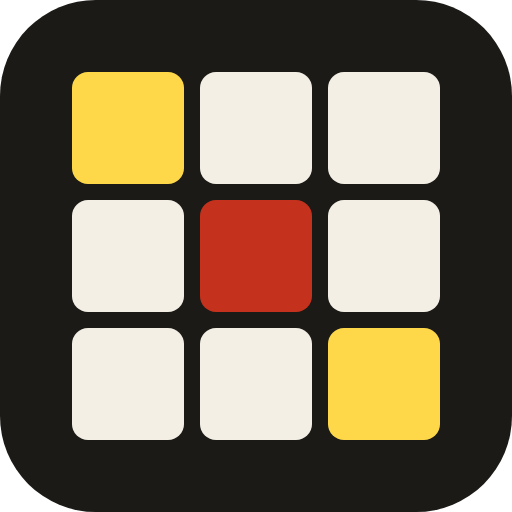
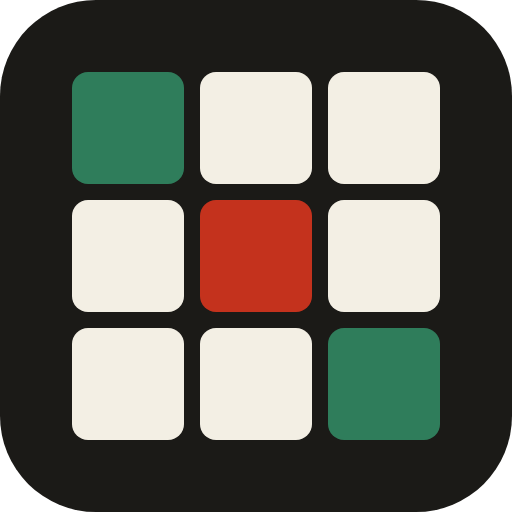
Add files via upload

Changed region(s): [[0.625, 0.625, 0.875, 0.875], [0.125, 0.125, 0.375, 0.375]]

diff --git a/index.html b/index.html
@@ -30,7 +30,7 @@ body { margin: 0; }
 [hidden] { display: none !important; }
 img { max-width: 100%; }
 
-/* Look: a photocopied course handout. Paper, black ink, a red pen for marking, highlighter yellow for the win. Dark mode is a chalkboard. */
+/* Look: a photocopied course handout. Paper, black ink, a red pen for marking, green highlighter for the win. Dark mode is a chalkboard. */
 :root {
   --bg: #F3EFE4;
   --surface: #FAF7EE;
@@ -41,8 +41,8 @@ img { max-width: 100%; }
   --accent-ink: #F3EFE4;
   --pen: #C4321D;
   --pen-ink: #FFFFFF;
-  --win: #FFD84A;
-  --win-ink: #2B2200;
+  --win: #2F7D5B;
+  --win-ink: #FFFFFF;
   --ok-bg: #E9E3D2;
   --ok-ink: #4A463A;
   --ok-line: #CFC7B0;
@@ -66,8 +66,8 @@ img { max-width: 100%; }
     --accent-ink: #14201A;
     --pen: #FF8A6B;
     --pen-ink: #1B0D08;
-    --win: #F2D864;
-    --win-ink: #241C00;
+    --win: #7FD3A2;
+    --win-ink: #0F2A1D;
     --ok-bg: #223229;
     --ok-ink: #CFD6CB;
     --ok-line: #34493D;
@@ -88,8 +88,8 @@ img { max-width: 100%; }
   --accent-ink: #14201A;
   --pen: #FF8A6B;
   --pen-ink: #1B0D08;
-  --win: #F2D864;
-  --win-ink: #241C00;
+  --win: #7FD3A2;
+  --win-ink: #0F2A1D;
   --ok-bg: #223229;
   --ok-ink: #CFD6CB;
   --ok-line: #34493D;
@@ -187,6 +187,10 @@ label.siteopt span { font-family: var(--font-body); font-size: 13.5px; letter-sp
 .siteopt input { width: 16px; height: 16px; accent-color: var(--accent); }
 .vote { min-height: 38px; }
 .rm, .cx { min-width: 38px; min-height: 38px; }
+.mark .b { fill: var(--ink); }
+.mark .c { fill: var(--bg); }
+.mark .w { fill: var(--win); }
+.mark .p { fill: var(--pen); }
 .mark { width: 0.82em; height: 0.82em; flex: none; border-radius: 22%; }
 h1 a { display: inline-flex; align-items: center; gap: 0.3em; }
 .nudge { position: fixed; left: max(16px, env(safe-area-inset-left, 0px)); right: 92px; bottom: max(16px, env(safe-area-inset-bottom, 0px)); max-width: 380px; z-index: 40; background: var(--ink); color: var(--bg); border-radius: 4px; padding: 10px 10px 10px 14px; display: flex; gap: 10px; align-items: center; font-size: 13px; line-height: 1.35; box-shadow: 3px 3px 0 var(--pen); animation: nudgein 0.25s ease-out; }
@@ -320,7 +324,7 @@ window.EULER_CONFIG = { url: "https://qicvehmdaxkxtssbqwld.supabase.co", key: "s
 <script src="https://cdn.jsdelivr.net/npm/@supabase/supabase-js@2.100.0"></script>
 <div class="wrap">
   <header>
-    <h1><a href="#" id="logo" aria-label="Prof Says, all cohorts"><svg class="mark" viewBox="0 0 64 64" aria-hidden="true"><rect width="64" height="64" rx="12" fill="#1B1A17"/><rect x="9" y="9" width="14" height="14" rx="2" fill="#FFD84A"/><rect x="25" y="9" width="14" height="14" rx="2" fill="#F3EFE4"/><rect x="41" y="9" width="14" height="14" rx="2" fill="#F3EFE4"/><rect x="9" y="25" width="14" height="14" rx="2" fill="#F3EFE4"/><rect x="25" y="25" width="14" height="14" rx="2" fill="#C4321D"/><rect x="41" y="25" width="14" height="14" rx="2" fill="#F3EFE4"/><rect x="9" y="41" width="14" height="14" rx="2" fill="#F3EFE4"/><rect x="25" y="41" width="14" height="14" rx="2" fill="#F3EFE4"/><rect x="41" y="41" width="14" height="14" rx="2" fill="#FFD84A"/></svg><span>Prof Says</span></a></h1>
+    <h1><a href="#" id="logo" aria-label="Prof Says, all cohorts"><svg class="mark" viewBox="0 0 64 64" aria-hidden="true"><rect width="64" height="64" rx="12" class="b"/><rect x="9" y="9" width="14" height="14" rx="2" class="w"/><rect x="25" y="9" width="14" height="14" rx="2" class="c"/><rect x="41" y="9" width="14" height="14" rx="2" class="c"/><rect x="9" y="25" width="14" height="14" rx="2" class="c"/><rect x="25" y="25" width="14" height="14" rx="2" class="p"/><rect x="41" y="25" width="14" height="14" rx="2" class="c"/><rect x="9" y="41" width="14" height="14" rx="2" class="c"/><rect x="25" y="41" width="14" height="14" rx="2" class="c"/><rect x="41" y="41" width="14" height="14" rx="2" class="w"/></svg><span>Prof Says</span></a></h1>
   </header>
 
   <p class="status" id="status" role="status" hidden></p>
@@ -2368,13 +2372,14 @@ window.EULER_CONFIG = { url: "https://qicvehmdaxkxtssbqwld.supabase.co", key: "s
   function applyTheme(board, id) {
     if (!board) return;
     var t = THEME[id];
-    ["--c-bg", "--c-line", "--c-ink", "--c-on", "--c-on-ink"].forEach(function (p) { board.style.removeProperty(p); });
+    ["--c-bg", "--c-line", "--c-ink", "--c-on", "--c-on-ink", "--win", "--win-ink"].forEach(function (p) { board.style.removeProperty(p); });
     board.style.background = "";
     board.classList.remove("themed");
     var deco = board.previousElementSibling && board.previousElementSibling.classList.contains("deco") ? board.previousElementSibling : null;
     if (!t) { if (deco) deco.hidden = true; return; }
     board.style.setProperty("--c-bg", themeCell(t)); board.style.setProperty("--c-line", t.l); board.style.setProperty("--c-ink", t.k);
     board.style.setProperty("--c-on", t.o); board.style.setProperty("--c-on-ink", t.oi);
+    var wn = winFor(t); board.style.setProperty("--win", wn.win); board.style.setProperty("--win-ink", wn.ink);
     board.style.background = themeBg(t);
     board.classList.add("themed");
     var html = decoHtml(t);
@@ -2616,6 +2621,24 @@ window.EULER_CONFIG = { url: "https://qicvehmdaxkxtssbqwld.supabase.co", key: "s
     m.forEach(function (h) { var c = hexRgb(h); sum[0] += c[0]; sum[1] += c[1]; sum[2] += c[2]; });
     return rgbHex(sum.map(function (v) { return v / m.length; }));
   }
+  function rgb2hsl(c) {
+    var r = c[0] / 255, g = c[1] / 255, b = c[2] / 255, mx = Math.max(r, g, b), mn = Math.min(r, g, b), l = (mx + mn) / 2, h = 0, sa = 0, d = mx - mn;
+    if (d) { sa = l > 0.5 ? d / (2 - mx - mn) : d / (mx + mn); if (mx === r) h = (g - b) / d + (g < b ? 6 : 0); else if (mx === g) h = (b - r) / d + 2; else h = (r - g) / d + 4; h *= 60; }
+    return [h, sa, l];
+  }
+  function hsl2hex(h, sa, l) {
+    var a = sa * Math.min(l, 1 - l);
+    var f = function (n) { var k = (n + h / 30) % 12; return l - a * Math.max(-1, Math.min(k - 3, 9 - k, 1)); };
+    return rgbHex([f(0) * 255, f(8) * 255, f(4) * 255]);
+  }
+  // the "bingo" colour: the backdrop's accent turned to its opposite hue, tuned so text on it passes contrast
+  function winFor(t) {
+    var hsl = rgb2hsl(hexRgb(t.o)), h = (hsl[0] + 180) % 360, sa = Math.max(0.5, Math.min(0.78, hsl[1] || 0.6));
+    var cell = /^#[0-9A-Fa-f]{6}/.test(t.c) ? t.c.slice(0, 7) : baseOf(t), L, c;
+    for (L = 0.3; L <= 0.46; L += 0.02) { c = hsl2hex(h, sa, L); if (contrast("#FFFFFF", c) >= 4.6 && contrast(c, cell) >= 1.8) return { win: c, ink: "#FFFFFF" }; }
+    for (L = 0.82; L >= 0.55; L -= 0.02) { c = hsl2hex(h, sa, L); if (contrast("#1B1A17", c) >= 4.6 && contrast(c, cell) >= 1.8) return { win: c, ink: "#1B1A17" }; }
+    return { win: "#2F7D5B", ink: "#FFFFFF" };
+  }
   function siteVars(t) {
     var base = baseOf(t), darkInk = lum(base) > 0.22, ink = darkInk ? "#1B1A17" : "#F1EEE2";
     var surface = darkInk ? mixc(base, "#ffffff", 0.6) : mixc(base, "#000000", 0.4), k = 0.6;
@@ -2631,10 +2654,11 @@ window.EULER_CONFIG = { url: "https://qicvehmdaxkxtssbqwld.supabase.co", key: "s
       "--bg": page, "--surface": surface, "--ink": ink, "--muted": muted, "--line": mixc(surface, ink, 0.3),
       "--accent": accent, "--accent-ink": accentInk, "--pen": pen, "--pen-ink": contrast("#FFFFFF", pen) >= contrast("#1B1A17", pen) ? "#FFFFFF" : "#1B1A17",
       "--ok-bg": mixc(surface, ink, 0.1), "--ok-ink": mixc(ink, surface, 0.15), "--ok-line": mixc(surface, ink, 0.3),
+      "--win": winFor(t).win, "--win-ink": winFor(t).ink,
       dark: !darkInk, base: base, wash: surface
     };
   }
-  var SITE_PROPS = ["--bg", "--surface", "--ink", "--muted", "--line", "--accent", "--accent-ink", "--pen", "--pen-ink", "--ok-bg", "--ok-ink", "--ok-line"];
+  var SITE_PROPS = ["--win", "--win-ink", "--bg", "--surface", "--ink", "--muted", "--line", "--accent", "--accent-ink", "--pen", "--pen-ink", "--ok-bg", "--ok-ink", "--ok-line"];
   function sitePref() { try { return localStorage.getItem(SITE_KEY) !== "0"; } catch (e) { return true; } }
   function applySite(id) {
     var root = document.documentElement, t = THEME[id];
@@ -2682,7 +2706,8 @@ window.EULER_CONFIG = { url: "https://qicvehmdaxkxtssbqwld.supabase.co", key: "s
   function confetti() {
     if (window.matchMedia && window.matchMedia("(prefers-reduced-motion: reduce)").matches) return;
     var box = el("div", "confetti"); box.setAttribute("aria-hidden", "true");
-    var colors = ["#FFD84A", "#C4321D", "#1B1A17", "#2E7D32", "#F3EFE4", "#4A90D9"];
+    var cs = getComputedStyle(document.documentElement), pick = function (n, d) { return cs.getPropertyValue(n).trim() || d; };
+    var colors = [pick("--win", "#2F7D5B"), pick("--pen", "#C4321D"), pick("--ink", "#1B1A17"), pick("--accent", "#1B1A17"), pick("--bg", "#F3EFE4"), pick("--muted", "#6A6556")];
     for (var i = 0; i < 46; i++) {
       var p = el("i");
       p.style.left = Math.random() * 100 + "%";
